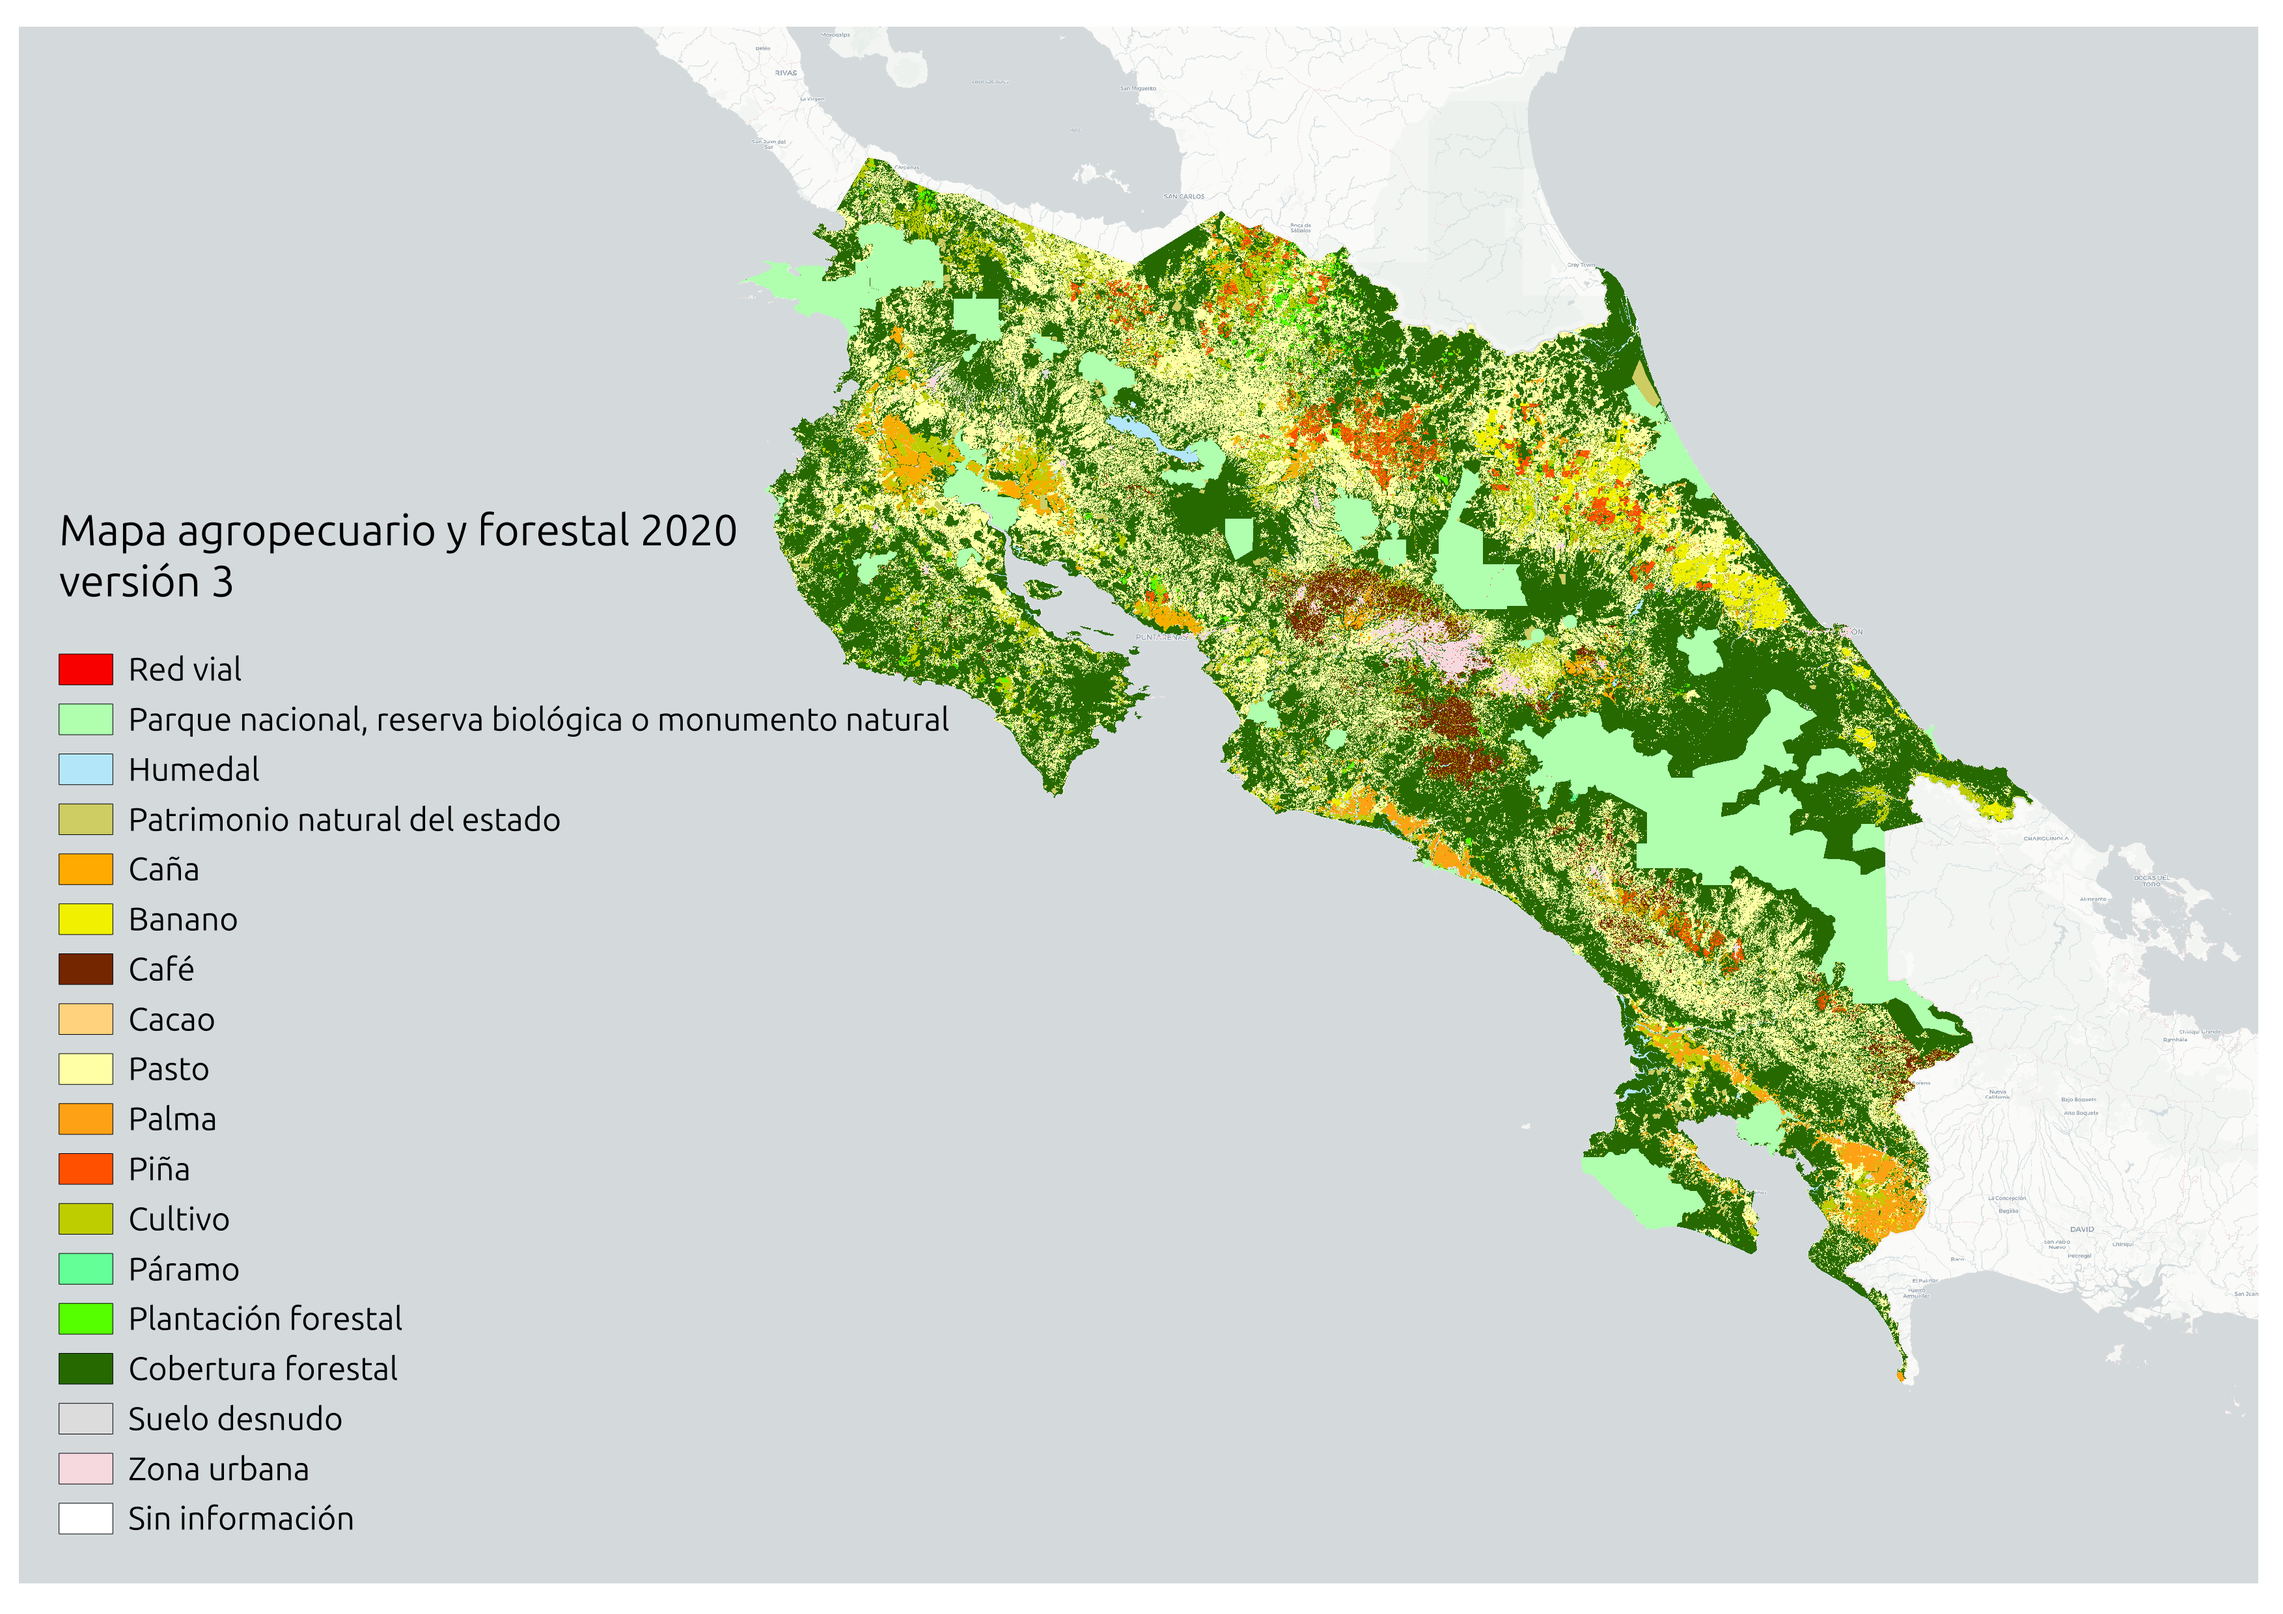
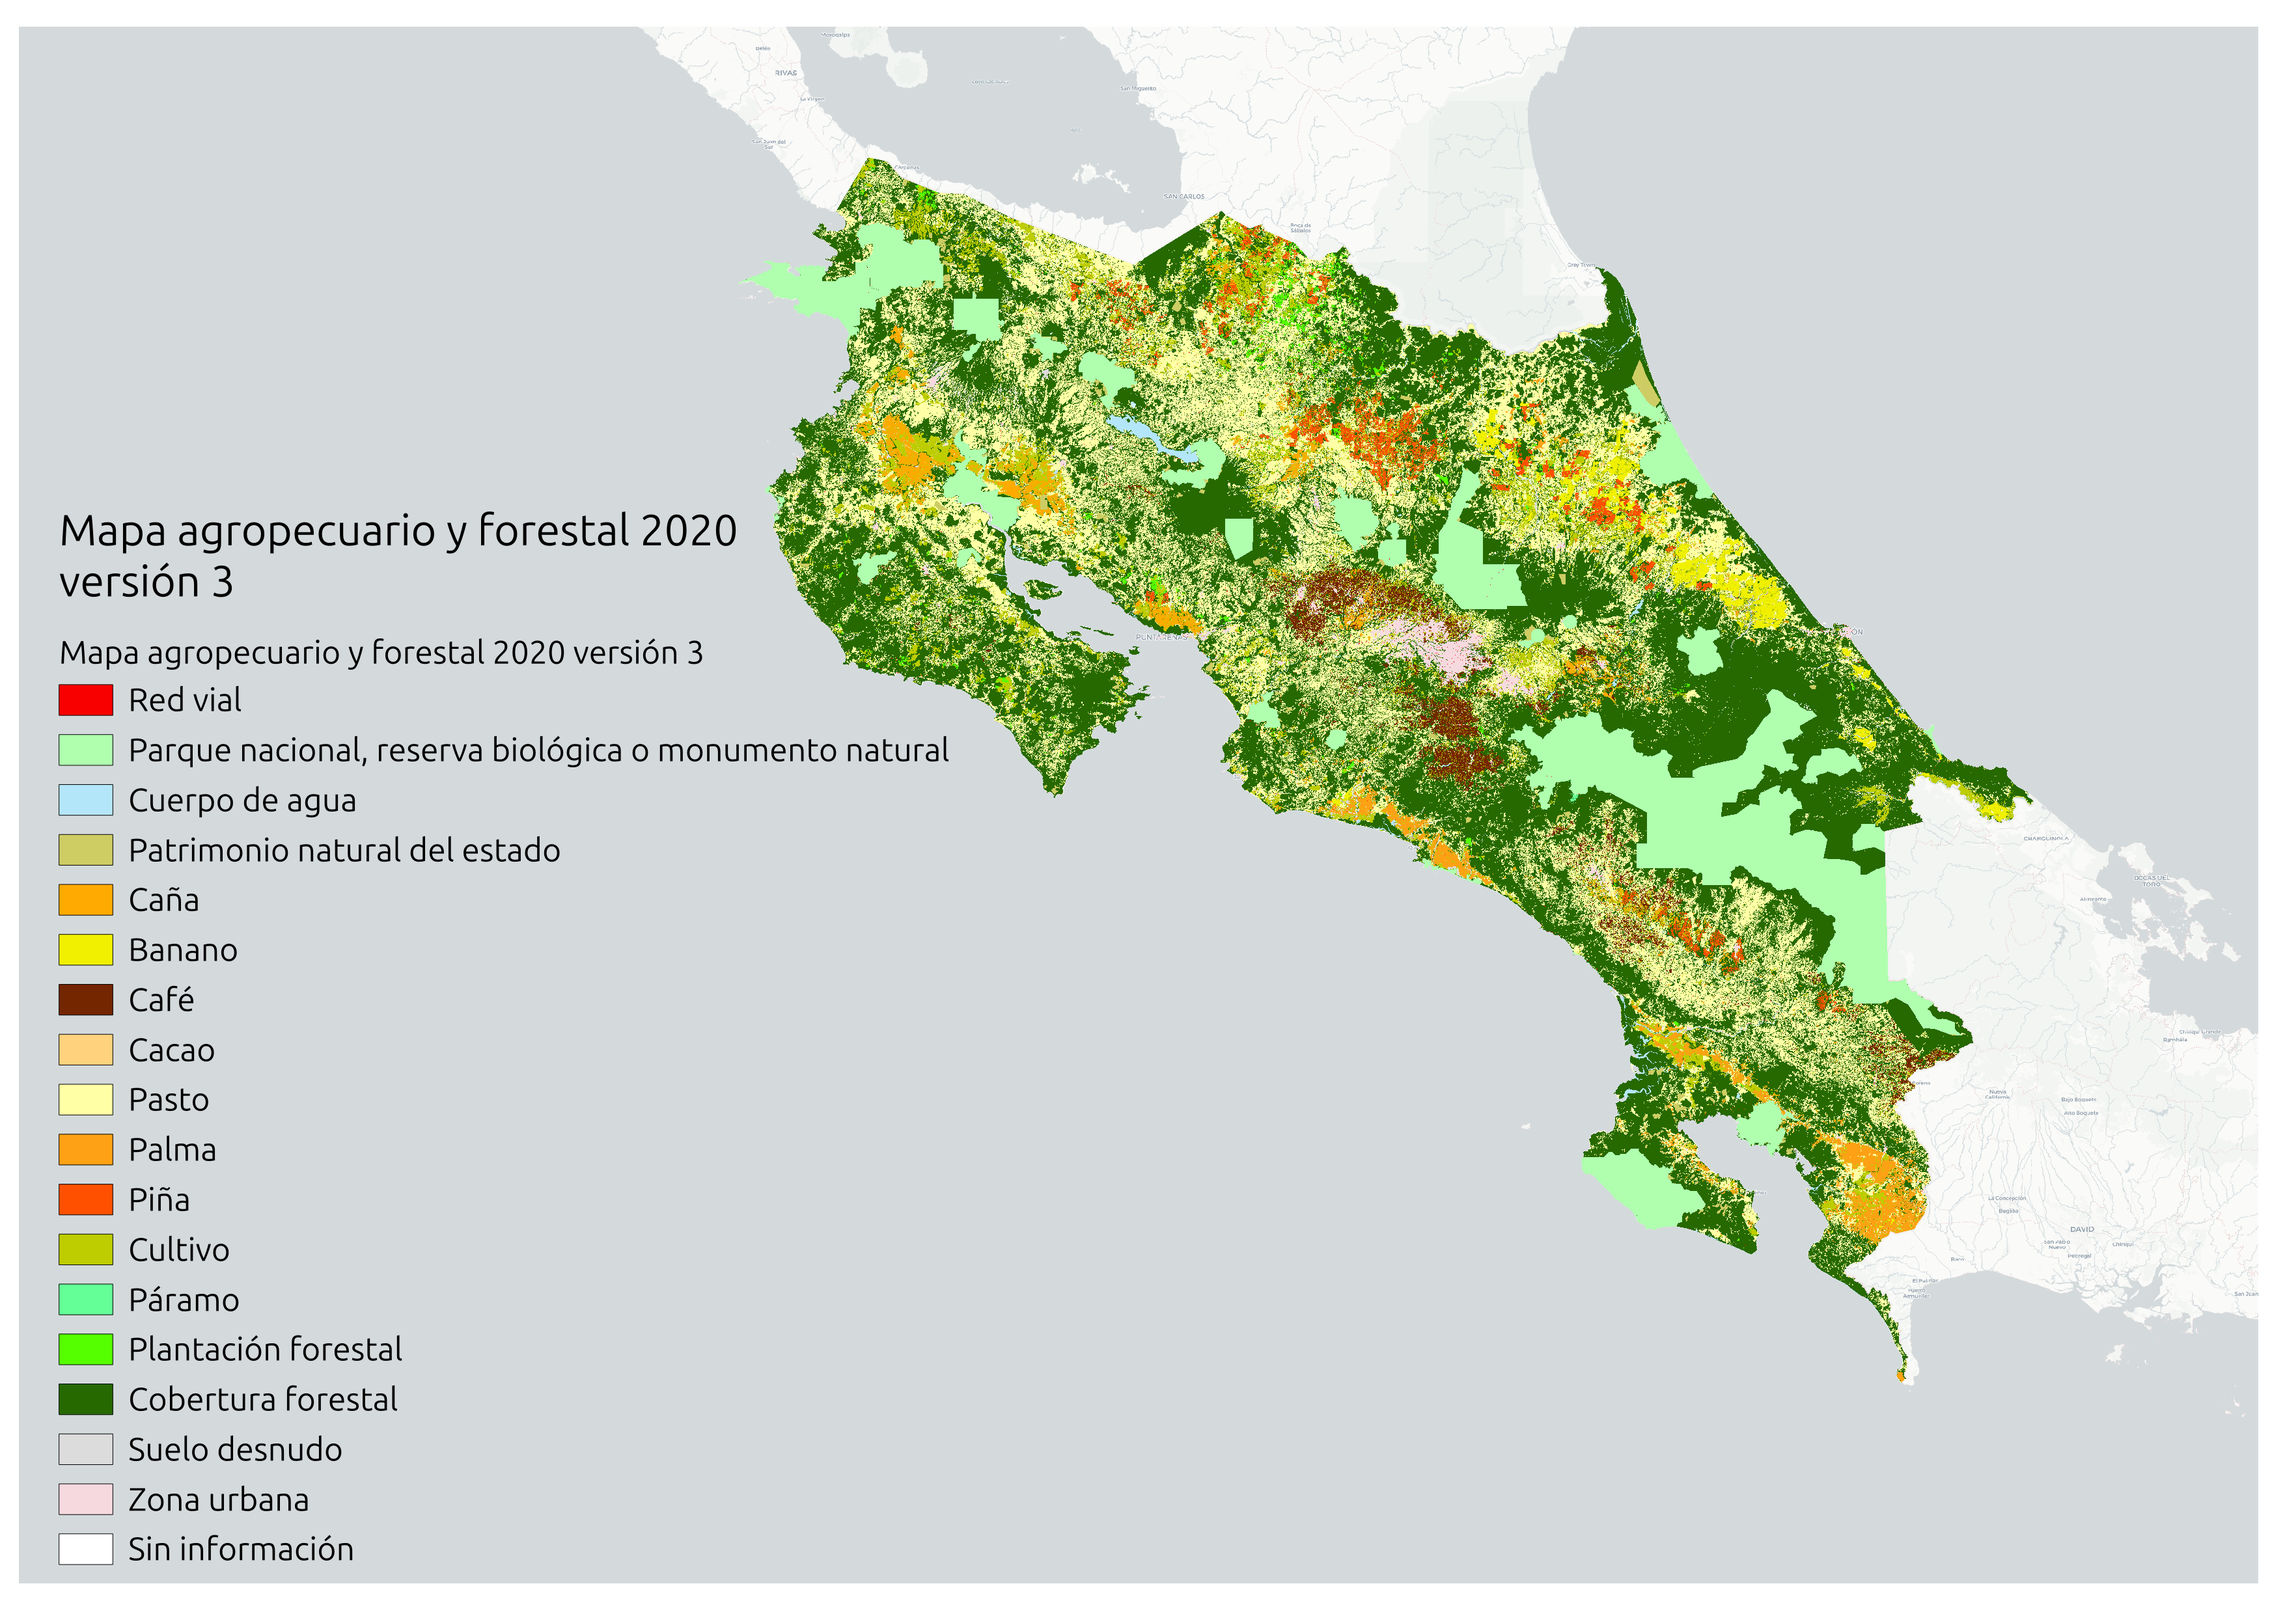
Cambiar etiqueta 'Humedal' por 'Cuerpo de agua'

Changed region(s): [[0.0, 0.4036, 0.404, 0.9935]]

diff --git a/qgis/bak/mapa-agropecuario-forestal-2020-v3.qml b/qgis/bak/mapa-agropecuario-forestal-2020-v3.qml
@@ -44,7 +44,7 @@
 			<colorPalette>
 				<paletteEntry alpha="255" color="#f80000" value="1"  label="Red vial"/>
 				<paletteEntry alpha="255" color="#afffaf" value="2"  label="Parque nacional, reserva biológica o monumento natural"/>
-				<paletteEntry alpha="255" color="#b4e6fa" value="3"  label="Humedal"/>
+				<paletteEntry alpha="255" color="#b4e6fa" value="3"  label="Cuerpo de agua"/>
 				<paletteEntry alpha="255" color="#cdcd64" value="4"  label="Patrimonio natural del estado"/>
 				<paletteEntry alpha="255" color="#ffaa00" value="5"  label="Caña"/>
 				<paletteEntry alpha="255" color="#f0f000" value="6"  label="Banano"/>
